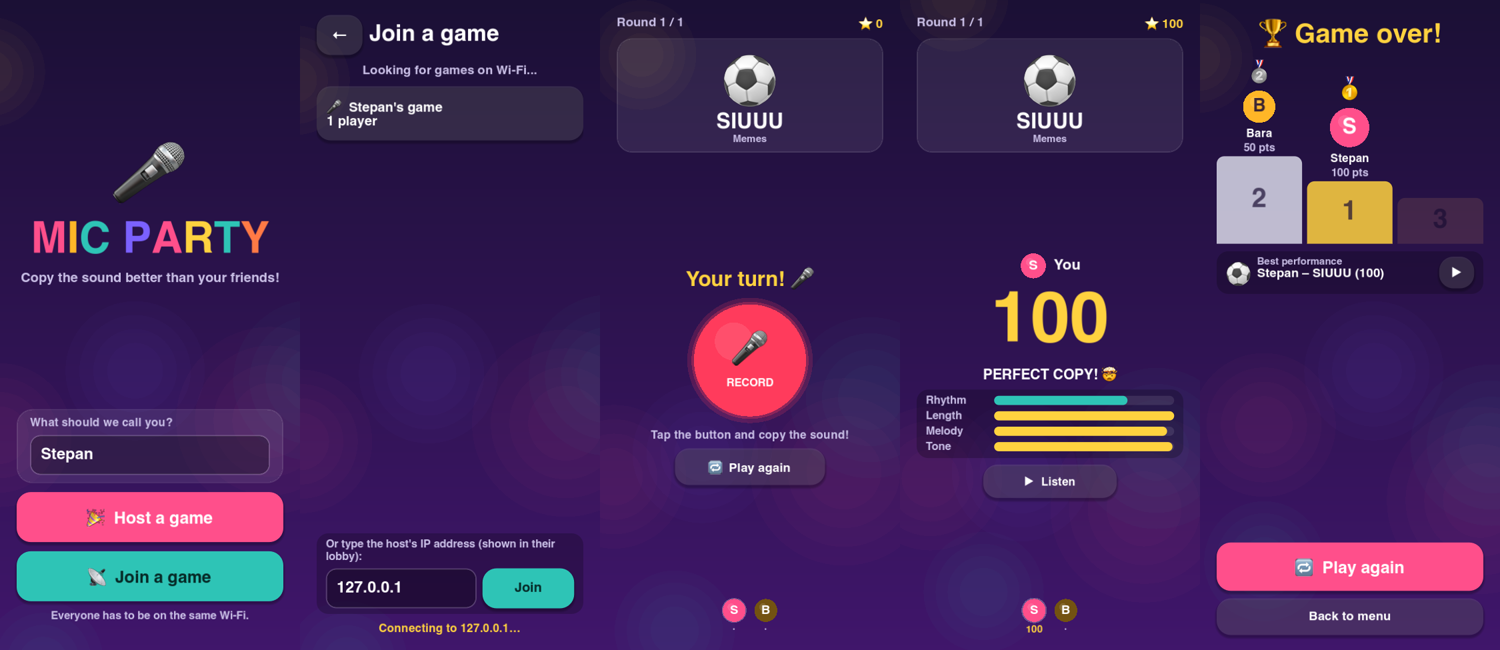
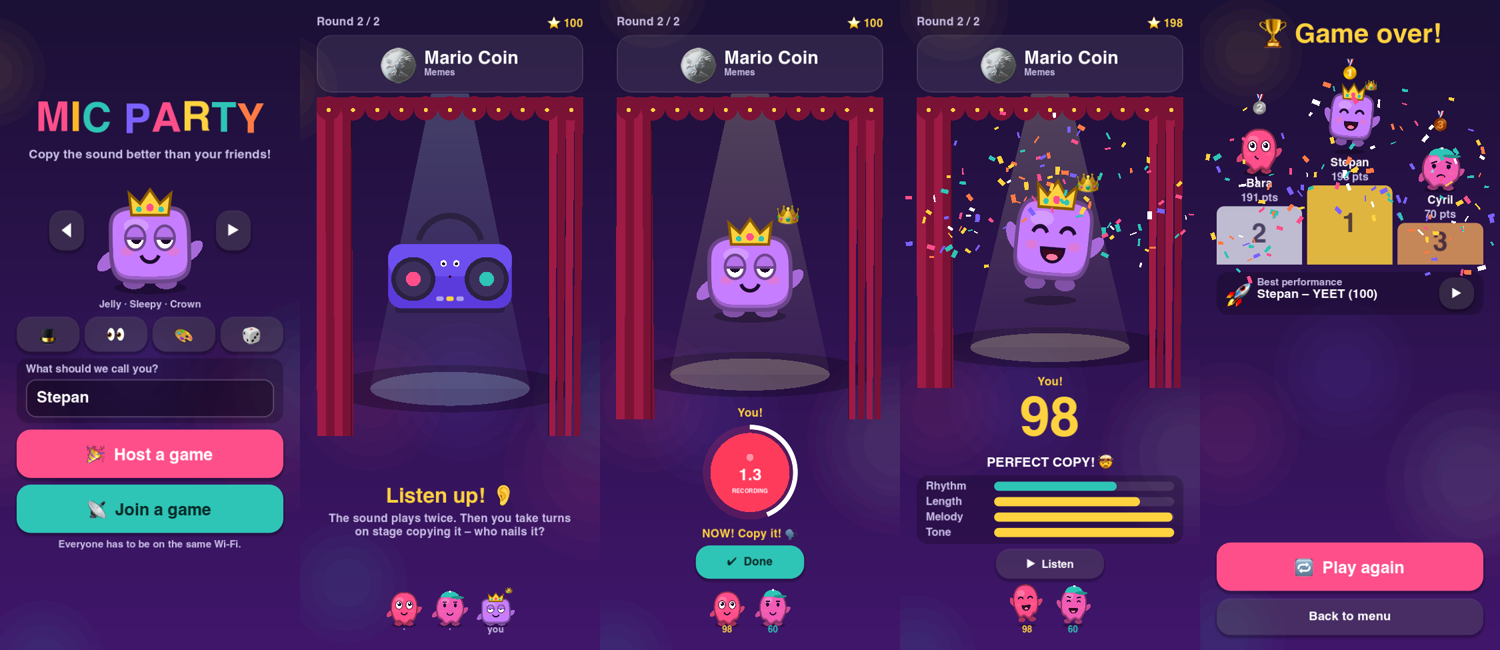
Mic Party 1.1.0: characters and stage

diff --git a/README.md b/README.md
@@ -1,8 +1,9 @@
 # 🎤 Mic Party – download
 
-A party game for phones on the same Wi-Fi. A sound plays – memes, animals, cartoon effects – and
-everyone takes turns copying it into their phone's microphone. The game scores how close you got
-(rhythm, length, melody, tone). Most points wins.
+A party game for phones on the same Wi-Fi. Build your own little critter, then a boombox plays a
+sound – memes, animals, cartoon effects – and everyone takes turns stepping into the spotlight and
+copying it into their phone's microphone. Your critter's mouth moves with your voice, live on
+everyone's phone. The game scores how close you got (rhythm, length, melody, tone). Most points wins.
 
 ![Screenshots](docs/screenshots.png)
 
@@ -16,7 +17,7 @@ everyone takes turns copying it into their phone's microphone. The game scores h
 
 ## How to play
 
-1. Everyone connects to **the same Wi-Fi**.
+1. Everyone connects to **the same Wi-Fi** and dresses up their critter (body, eyes, hat, color – or 🎲).
 2. One player taps **Host a game**, the others tap **Join a game** – the game shows up automatically.
    If it doesn't, type the IP address shown in the host's lobby.
 3. The host picks the number of rounds and the sound categories, then taps **Start game**.
